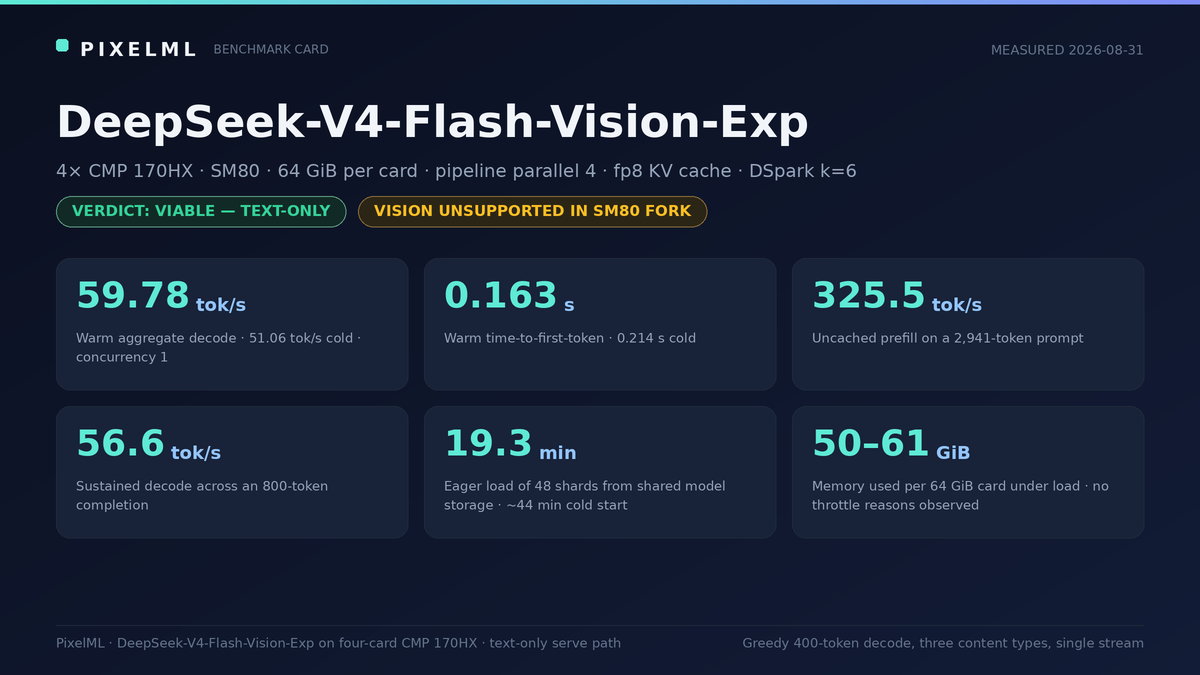
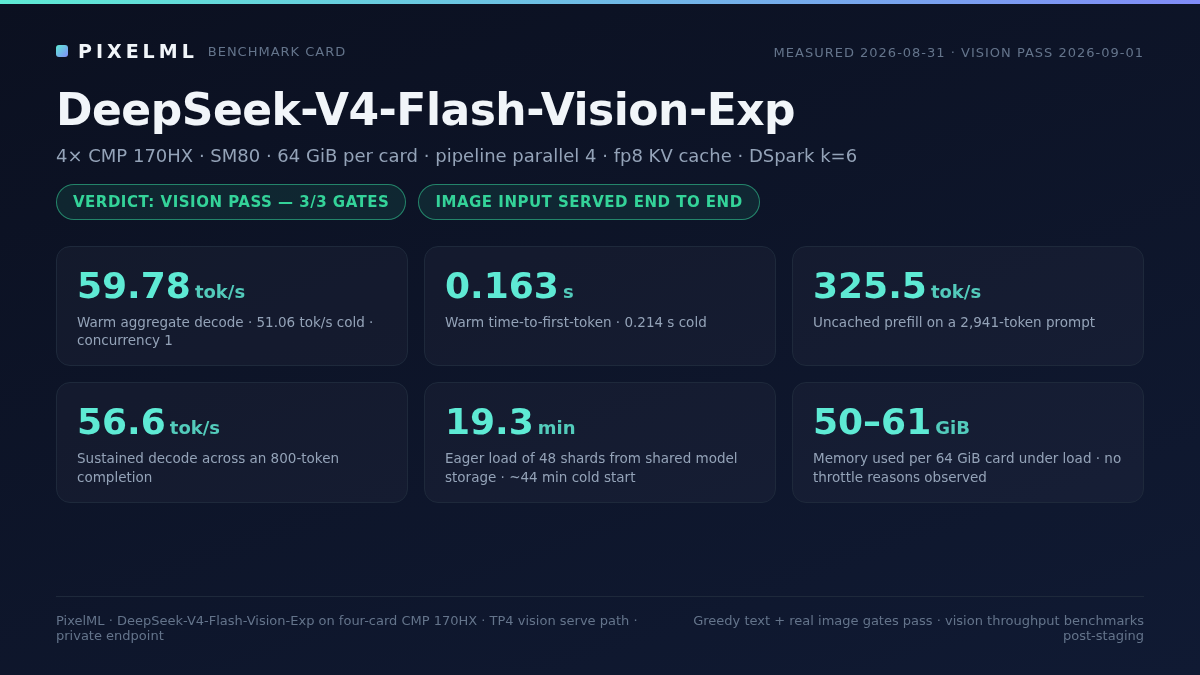
assets: benchmark card vision PASS verdict

diff --git a/assets/benchmark-card.html b/assets/benchmark-card.html
@@ -68,14 +68,14 @@
     <span class="name">PIXELML</span>
     <span class="tag">BENCHMARK CARD</span>
   </div>
-  <div class="stamp">MEASURED 2026-08-31</div>
+  <div class="stamp">MEASURED 2026-08-31 · VISION PASS 2026-09-01</div>
 </header>
 
 <h1>DeepSeek-V4-Flash-Vision-Exp</h1>
 <div class="sub">4× CMP 170HX · SM80 · 64 GiB per card · pipeline parallel 4 · fp8 KV cache · DSpark k=6</div>
 <div class="pills">
-  <span class="pill good">VERDICT: VIABLE — TEXT-ONLY</span>
-  <span class="pill warn">VISION UNSUPPORTED IN SM80 FORK</span>
+  <span class="pill good">VERDICT: VISION PASS — 3/3 GATES</span>
+  <span class="pill good">IMAGE INPUT SERVED END TO END</span>
 </div>
 
 <div class="grid">
@@ -106,8 +106,8 @@
 </div>
 
 <footer>
-  <div>PixelML · DeepSeek-V4-Flash-Vision-Exp on four-card CMP 170HX · text-only serve path</div>
-  <div class="right">Greedy 400-token decode, three content types, single stream · receipts in repository</div>
+  <div>PixelML · DeepSeek-V4-Flash-Vision-Exp on four-card CMP 170HX · TP4 vision serve path · private endpoint</div>
+  <div class="right">Greedy text + real image gates pass · vision throughput benchmarks post-staging</div>
 </footer>
 </body>
 </html>
